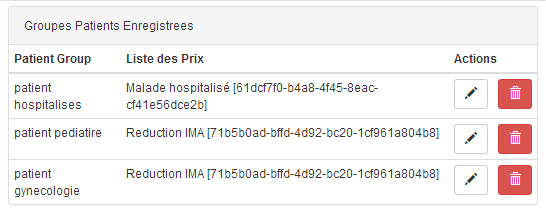
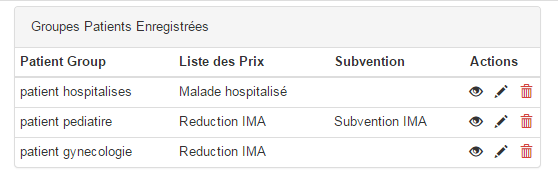
update user guide and complete translation

Changed region(s): [[0.0, 0.1913, 0.9963, 0.9563], [0.0311, 0.082, 0.3736, 0.1913], [0.0, 0.0273, 0.9963, 0.0546]]

diff --git a/client/src/partials/caution/caution.html b/client/src/partials/caution/caution.html
@@ -60,8 +60,8 @@
               </div>
 
               <div class="form-group">
-                <label class="control-label col-xs-2">{{ "CAUTION.GENDER" | translate }}</label>
-                <p class="form-control-static col-xs-10">{{debtor.sex}}</p>
+                <label class="control-label col-xs-4">{{ "CAUTION.GENDER" | translate }}</label> 
+                <p class="form-control-static col-xs-8">{{debtor.sex}}</p>
               </div>
             </div>
 

diff --git a/docs/BHIMA User Guide/HMS manuel d'utilisation.tex b/docs/BHIMA User Guide/HMS manuel d'utilisation.tex
@@ -287,7 +287,25 @@ Lorsque l'utilisateur click sur le bouton \includegraphics[scale=0.7]{pic/CreeAn
 
 Le champ \textbf{Année Fiscale précédent} n'apparait que s'il existe au moins une année fiscale déjà enregistrer dans le système. 
 
-Après avoir renseigné tous ce champ, un clic sur le bouton \textbf{Enregistrer} permet d'ajouter Une année fiscale dans ladite liste.
+Après avoir renseigné tous ce champ, un clic sur le bouton \textbf{Enregistrer} redirige vers la deuxième étape de la création d'année fiscale qu'au cas ou il existait une année fiscale précédente à celle qui est en train d'être créer. Cette interface permet juste la confirmation de la fermeture de l'année fiscale précédente.
+
+\begin{figure}[h]
+\begin{center}
+\includegraphics[width=12cm]{pic/CloseFiscYear.png}
+\end{center}
+\caption{Aperçue de l'interface permettant la fermeture de l'année fiscale précédente}
+\label{Aperçue de l'interface permettant la fermeture de l'année fiscale précédente}
+\end{figure}
+
+La troisième étape de la création d'une année fiscale n'est juste qu'une interface de confirmation de la fermeture de l'année fiscale, cette troisième étape devient la deuxième étape de la création d'une année fiscale dans le cas ou il n'existait pas encore d'autres années fiscale.
+
+\begin{figure}[h]
+\begin{center}
+\includegraphics[width=12cm]{pic/ConfirSucces.png}
+\end{center}
+\caption{Message de confirmation de la création de la nouvelle année fiscale}
+\label{Message de confirmation de la création de la nouvelle année fiscale}
+\end{figure}
 
 \newpage
 
@@ -296,25 +314,23 @@ Voici comment se présente la liste des années fiscale
 
 \begin{figure}[h]
 \begin{center}
-\includegraphics[width=16cm]{pic/ListeAnnFisc.png}
+\includegraphics[width=9cm]{pic/ListeAnnFisc.png}
 \end{center}
 \caption{Aperçue de la liste des années fiscales}
 \label{Aperçue de la liste des années fiscaux}
 \end{figure}
 
-
-La liste des années fiscale possède deux entêtes Description et Début année, pour chaque année fiscale de la liste existe l'icône \includegraphics[scale=0.7]{pic/EditUser.png} qui permet d'éditer l'année fiscal, le bloquer, le débloquer permet aussi de voir l'ouverture des balances. La figure ci-après permet de voir le formulaire qui permet de faire toutes ces opérations.
+Pour pouvoir visualiser les détailles d'une année fiscale il suffit de cliquer sur cette année fiscale dans la liste des années fiscaux.
 
 \begin{figure}[h]
 \begin{center}
 \includegraphics[width=12cm]{pic/FormAddFiscYear.png}
 \end{center}
-\caption{Formulaire d'administration des années fiscaux}
-\label{Formulaire d'administration des années fiscaux}
+\caption{Interface principale de management d'une année fiscal}
+\label{Interface principale de management d'une année fiscal}
 \end{figure}
 
-Dans la partie gauche de l'image ci-haut on retrouve la description de l'année fiscale, le bouton permettant de bloquer une année fiscale, le total des mois, le premier No Voucher, le dernier Voucher No, la date à laquelle la dite année fiscale avait été posté ainsi que la date à laquelle l'année fiscale prend fin.
-Dans la partie droite est affichée les différentes périodes de l'année fiscale. En dessous de ce tableau se trouve le bouton voir la balance d'ouverture.
+Dans la partie gauche de l'image ci-haut on retrouve la liste des années fiscales, on peut aussi , modifier la designation d'une année fiscale, visualiser les différentes périodes qui constituent cette année fiscale. 
 
 \newpage
 \section{Liste des prix}
@@ -508,10 +524,10 @@ Pour faire l'administration des secteurs, il suffit de cliquer sur le bouton \in
 
 \begin{figure}[h]
 \begin{center}
-\includegraphics[width=14cm]{pic/FormulaireGestionSecteur.png}
+\includegraphics[width=12cm]{pic/FormulaireGestionSecteur.png}
 \end{center}
-\caption{Aperçue du plan Comptable}
-\label{Aperçue du plan Comptable}
+\caption{Aperçue de l'interface permettant la gestion des secteurs}
+\label{Aperçue de l'interface permettant la gestion des secteurs}
 \end{figure}
 
 Le bouton \includegraphics[scale=0.7]{pic/GestionEmplacement.png} redirige vers la page principale de la gestion des emplacements.
@@ -519,7 +535,7 @@ Le bouton \includegraphics[scale=0.7]{pic/AddSecteur.png} permet d'ajouter un se
 
 \begin{figure}[h]
 \begin{center}
-\includegraphics[width=14cm]{pic/FormAddSecteur.png}
+\includegraphics[width=10cm]{pic/FormAddSecteur.png}
 \end{center}
 \caption{Formulaire permettant d'ajouter les secteurs}
 \label{Formulaire permettant d'ajouter les secteurs}
@@ -536,16 +552,15 @@ Pour faire l'administration des provinces, il suffit de cliquer sur le bouton \i
 \includegraphics[width=14cm]{pic/InterfaceGestionProvince.png}
 \end{center}
 \caption{Interface principale permettant la gestion des provinces}
-\label{Aperçue du plan Comptable}
+\label{Interface principale permettant la gestion des provinces}
 \end{figure}
 
 Le bouton \includegraphics[scale=0.7]{pic/GestionEmplacement.png} redirige vers la page principale de la gestion des emplacements.
 
 Le bouton \includegraphics[scale=0.7]{pic/AddNewProvince.png} permet d'ajouter une province dans ladite liste.
-\newpage
 \begin{figure}[h]
 \begin{center}
-\includegraphics[width=14cm]{pic/FormNewProvince.png}
+\includegraphics[width=10cm]{pic/FormNewProvince.png}
 \end{center}
 \caption{Formulaire permettant d'ajouter une province}
 \label{Formulaire permettant d'ajouter une province}
@@ -571,7 +586,7 @@ Le bouton \includegraphics[scale=0.7]{pic/AddCountry.png} permet d'ajouter un pa
 
 \begin{figure}[h]
 \begin{center}
-\includegraphics[width=16cm]{pic/SaveCountry.png}
+\includegraphics[width=10cm]{pic/SaveCountry.png}
 \end{center}
 \caption{Enregistrer un pays}
 \label{Enregistrer un pays}
@@ -580,6 +595,107 @@ Le bouton \includegraphics[scale=0.7]{pic/AddCountry.png} permet d'ajouter un pa
 Le formulaire ci-haut apparait lorsqu'un utilisateur clique sur le bouton \textbf{ajouter Nouveau pays}. Ce formulaire possède trois champs, le premier \textbf{Code} permet de donner un code à un pays ensuite un champ pour donner le nom du pays en \textbf{Anglais} et l'autre pour le \textbf{Français}.
 L'enregistrement est effectif seulement si l'utilisateur clique sur le bouton Ajouter. La liste des pays apparait sous forme de tableau. Ce tableau a trois rubriques. Le premier \textbf{Code} renseigne sur le code qui a été attribué au pays, le second \textbf{Nom en anglais} suivi de \textbf{Nom}  et le dernier \textbf{Actions} renferme deux icônes le premier \includegraphics[scale=0.7]{pic/EditUser.png}  permet de modifier les informations sur un pays et le second \includegraphics[scale=0.7]{pic/DeleteWRed.png}  permet de supprimer un pays.
 
+
+\section{Subventions}
+La figure ci-dessous représente l'interface principale permettant la Gestion des subventions. 
+\begin{figure}[h]
+\begin{center}
+\includegraphics[width=12cm]{pic/MainSubvention.png}
+\end{center}
+\caption{Interface permettant l'administration des subventions}
+\label{Interface permettant l'administration des subventions}
+\end{figure}
+
+Dans la figure ci-haute on retrouve dans la partie gauche la liste des différents subventions enregistrées dans le système, au dessus de ce tableau existe le bouton \includegraphics[scale=1]{pic/NewSubvention.png} qui permet d'ajouter un nouveau grade dans le système, le formulaire permettant d'enregistrer une nouvelle subvention se présente de la manière suivante.
+
+\begin{figure}[h]
+\begin{center}
+\includegraphics[width=8cm]{pic/FormSubvention.png}
+\end{center}
+\caption{Formulaire permettant l'enregistrement des subventions}
+\label{Formulaire permettant l'enregistrement des subventions}
+\end{figure} 
+
+Le formulaire permettant l'enregistrement des subventions comporte quatre zones de saisie rélative à la désignation de la subvention, le champ en pourcentage permet de spécifier si la subvention s'exprime en terme  de pourcentage, le champ valeur permet de renseigner la valeur de la subvention soit en pourcentage ou bien à l'unité monnetaire et le dernier permet de spécifier le débiteur qui prend en charge la subvention. 
+
+Les tableaux réprésentant les subventions enregistrées donne la possibilité de pouvoir mettre à jour les informations rélative à une subventions, dans la zone action de ce tableau on retrouve deux icônes, l'icône \includegraphics[scale=0.7]{pic/EditBlack.png} qui permet de mettre à jour une subventions et \includegraphics[scale=0.7]{pic/DeleteWRed.png} permet de supprimer une subvention dans le système.
+Voici un apperçu du formulaire permettant la mise à jour des informations d'une subvention, la mise à jour est effective que si l'on modifier les informations dont on a besoin en validant grace au bouton soumettre. 
+
+\begin{figure}[h]
+\begin{center}
+\includegraphics[width=8cm]{pic/FormUpSubventions.png}
+\end{center}
+\caption{Formulaire permettant de mettre à jour les informations d'une subvention}
+\label{Formulaire permettant de mettre à jour les informations d'une subvention}
+\end{figure} 
+
+\newpage
+\section{Taux d'échange}
+Le module de taux de change, donne la possibilité de définir le taux d'échange du jour. Par souci d'intégrité des données, Le taux d'échange doit être défini chaque jour.
+
+
+\begin{figure}[h]
+\begin{center}
+\includegraphics[width=16cm]{pic/FormulaireConfigRate.png}
+\end{center}
+\caption{Formulaire permettant de configurer le taux de change}
+\label{Formulaire permettant de configurer le taux de change}
+\end{figure}
+
+\subsection{Nouveau Taux}
+Lorsque l'utilisateur click sur le bouton \includegraphics[scale=0.7]{pic/NouveauTaux.png}
+ Le formulaire ci-après apparait.
+
+\begin{figure}[h]
+\begin{center}
+\includegraphics[width=12cm]{pic/DefinirTaux.png}
+\end{center}
+\caption{Formulaire permettant de definir le taux}
+\label{Formulaire permettant de definir le taux}
+\end{figure}
+\begin{itemize}
+\item \textbf{United States Dollars}: est la monnaie principale de l'application, l'équivalence avec d'autres monnaies ne doit se faire qu'avec la somme de 100 Dollars,
+\item \textbf{Sélectionner Monnaie}: Affiche la liste des monnaies qui existe dans le système et la zone de saisie qui se retrouve en bas permet de préciser l'équivalence avec la monnaie principale.
+\end{itemize}
+Après avoir renseigné ce deux champs, un clique sur le bouton \textbf{Soumettre} permet de définir les taux du jour.
+
+\subsection{Revoir le taux d'aujourd'hui}
+Un clic sur le bouton \includegraphics[scale=0.7]{pic/RevoirTaux.png} permet d'afficher toutes les informations sur le taux du jour, comme la montre la figure ci-dessous.
+\begin{figure}[h]
+\begin{center}
+\includegraphics[width=12cm]{pic/ShowRate.png}
+\end{center}
+\caption{Aperçue du taux du jour}
+\label{Aperçue du taux du jour}
+\end{figure}
+\newpage
+\section{Groupe Créditeur}
+Ce module permet de faire la gestion des groupes créditeurs, l'interface principale de ce module se présente de la manière que voici.
+
+\begin{figure}[h]
+\begin{center}
+\includegraphics[width=12cm]{pic/AdminGroupCredit.png}
+\end{center}
+\caption{Interface principale permettant d'administrer le groupe créditeur}
+\label{Interface principale permettant d'administrer le groupe créditeur}
+\end{figure}
+
+
+Le bouton \includegraphics[scale=0.7]{pic/NewGroupCredit.png} permet d'ajouter un nouveau groupe créditeur dans ladite liste.
+
+\begin{figure}[h]
+\begin{center}
+\includegraphics[width=12cm]{pic/AddNewGroupCred.png}
+\end{center}
+\caption{Ajouter un nouveau groupe créditeur}
+\label{Ajouter un nouveau groupe créditeur}
+\end{figure}
+
+Le formulaire ci-haut apparait lorsqu'un utilisateur clique sur le bouton \textbf{Nouveau groupe Créditeur}. Ce formulaire possède deux champs, le premier \textbf{Nom du groupe} permet de spécifier le nom du groupe et \textbf{Numéro de compte}  le numéro de compte permet de choisir dans la liste de compte, celui correspondant au groupe créditeur.
+L'enregistrement est effectif seulement si l'utilisateur clique sur le bouton Sauver changement.
+La liste des groupes créditeurs apparait sous forme de tableau. Ce tableau possède quatre rubriques. Le premier \textbf{Nom du groupe} renseigne sur le nom du groupe, le second renseigne sur le numéro de compte, en troisième lieu il y'a une rubrique qui est représenté par l'icône \includegraphics[scale=0.7]{pic/Locked.png}  qui permet de verrouiller mais aussi de déverrouillé un groupe créditeur à l'aide de case à coché et denier lieu il y'a \textbf{Editer} qui contient l'icône  \includegraphics[scale=0.7]{pic/EditUser.png} permet de modifier les informations sur un groupe créditeur.
+
+
 \newpage
 \section{Groupe des Patients}
 Ce menu permet d'enregistrer toutes les groupes permettant des catégorisés les différents type des patients. Qui sont admis au sein de l'hôpital. 
@@ -587,7 +703,7 @@ L'interface principale se présente comme de la manière suivante.
 
 \begin{figure}[h]
 \begin{center}
-\includegraphics[width=14cm]{pic/AdminGroupPatient.png}
+\includegraphics[width=16cm]{pic/AdminGroupPatient.png}
 \end{center}
 \caption{Interface principale de la gestion des groupes des malades}
 \label{Interface principale de la gestion des groupes des malades}
@@ -599,7 +715,7 @@ Pour ajouter un nouveau groupe des patients, il suffit de cliquer sur le bouton 
 
 \begin{figure}[h]
 \begin{center}
-\includegraphics[width=14cm]{pic/FormGroupPatient.png}
+\includegraphics[width=10cm]{pic/FormGroupPatient.png}
 \end{center}
 \caption{Formulaire permettant d'enregistrer un groupe des patients}
 \label{Formulaire permettant d'enregistrer un groupe des patients}
@@ -607,15 +723,24 @@ Pour ajouter un nouveau groupe des patients, il suffit de cliquer sur le bouton 
 
 Le formulaire ci-haut apparait lorsqu'un utilisateur clique sur le bouton \textbf{Nouveau groupe patients}. Ce formulaire possède trois champs le premier \textbf{Nom} permet de donner un nom au groupe des malades et le second Liste des prix fait référence à la \textbf{liste de prix} relative à la dite groupe le dernier \textbf{Note} permet d'ajouter des informations supplémentaire au groupe des patients.
 
-L'enregistrement est effectif seulement si l'utilisateur clique sur le bouton Sauver. La liste \textbf{Groupes Patients Enregistrées} apparait sous forme de tableau. Ce tableau a trois rubriques. Le premier \textbf{Patient group} renseigne sur le nom du groupe, le second \textbf{Liste de prix} permet de savoir dans quelles liste de prix fait référence un groupe. Le dernier \textbf{Actions} renferme deux icônes le premier \includegraphics[scale=0.7]{pic/EditBlack.png}  permet de modifier les informations sur un pays et le second \includegraphics[scale=0.7]{pic/DeleteRed.png}  permet de supprimer un groupe.
+L'enregistrement est effectif seulement si l'utilisateur clique sur le bouton Sauver. La liste \textbf{Groupes Patients Enregistrées} apparait sous forme de tableau. Ce tableau a trois rubriques. Le premier \textbf{Patient group} renseigne sur le nom du groupe, le second \textbf{Liste de prix} permet de savoir dans quelles liste de prix fait référence un groupe. Le dernier \textbf{Actions} renferme deux icônes le premier \includegraphics[scale=0.7]{pic/blackEyes.png}  permet de visualiser les spécificités d'un groupe des patients, le premier \includegraphics[scale=0.7]{pic/EditBlack.png}  permet de modifier les informations sur un groupe des patients et le troisième \includegraphics[scale=0.7]{pic/DeleteRed.png}  permet de supprimer un groupe.
+
+
+\begin{figure}[h]
+\begin{center}
+\includegraphics[width=12cm]{pic/DetaiGrouPAtient.png}
+\end{center}
+\caption{Aperçue de l'interface permettant la visualisation des données d'un groupe des patients}
+\label{Aperçue de l'interface permettant la visualisation des données d'un groupe des patients}
+\end{figure}
 
 
 \begin{figure}[h]
 \begin{center}
 \includegraphics[width=12cm]{pic/TabGroupMalade.png}
 \end{center}
-\caption{Aperçue du tableau des groupes des malades}
-\label{Aperçue du tableau des groupes des malades}
+\caption{Aperçue du tableau des groupes des patients}
+\label{Aperçue du tableau des groupes des patients}
 \end{figure}
 \newpage
 
@@ -684,13 +809,13 @@ Dans la partie gauche l'on trouve un bouton qui permet d'ajouter un nouveau dép
 
 \begin{figure}[h]
 \begin{center}
-\includegraphics[width=14cm]{pic/NewStore.png}
+\includegraphics[width=10cm]{pic/NewStore.png}
 \end{center}
 \caption{Formulaire permettant d'ajouter un dépôt}
 \label{Formulaire permettant d'ajouter un dépôt}
 \end{figure}
 
-Le formulaire ci-haut apparait lorsqu'un utilisateur clique sur le bouton \textbf{Ajouter}. Ce formulaire possède le champ \textbf{Nom} qui permet d'attribuer un nom à un dépôt.
+Le formulaire ci-haut apparait lorsqu'un utilisateur clique sur le bouton \textbf{Ajouter}. Ce formulaire possède le champ \textbf{Nom} qui permet d'attribuer un nom à un dépôt, la case à cocher est ce un entrepôt permet de spécifier si le dépôt qui est entrain d'être enregistrer sera la principale dans l'organisation.
 L'enregistrement est effectif seulement si l'utilisateur clique sur le bouton Soumettre. \textbf{La liste de tous les dépôts} apparait sous forme de tableau. Ce tableau afficher toutes les informations relatives entre autre le numéro de référence, le nom et La zone \textbf{Acte} renferme deux icônes le premier \includegraphics[scale=0.7]{pic/EditUser.png}  permet de modifier le nom d'un dépôt le second \includegraphics[scale=0.7]{pic/DeleteWRed.png}  permet de supprimer un dépôt.
 \newpage
 
@@ -778,6 +903,16 @@ En dessous de cette zone réservé au bouton, il y'a une zone qui permet de rech
 \end{center}
 \caption{Aperçue de la zone permettant de rechercher un patient}
 \label{Aperçue de la zone permettant de rechercher un patient}
+\end{figure}
+
+Il existe une aussi une zone qui permet de spécifier le type de vente à opérer, il peut s'agir d'une vente distribuable et non distribuable. Une vente est dite distribuable si le patient pourrai aller se servir en produits pharmaceutiques et non distribuable si le patient à déjà consommer les dites produits. Par défaut c'est l'option \textbf{Distribuable} qui est coché par défaut.  
+
+\begin{figure}[h]
+\begin{center}
+\includegraphics[width=14cm]{pic/TypeVente.png}
+\end{center}
+\caption{Aperçue de la zone permettant de spécifier le type de vente}
+\label{Aperçue de la zone permettant de spécifier le type de vente}
 \end{figure}
 
 Après avoir lancer la recherche, les patients apparaissent sous forme d'une liste, une fois qu'on a retrouvé celui dont on a besoin, on le sélectionne et on clique sur le bouton soumettre, après cette étape il faudrait preciser dans quelle service est pris en charge le patient.
@@ -1047,6 +1182,7 @@ Cet interface permet aussi de prendre en charge plusieur facture appartenant à 
 \caption{Apperçue de l'interface permettant de renseigner la personne qui a autorisée le paiement}
 \label{Apperçue de l'interface permettant de renseigner la personne qui a autorisée le paiement}
 \end{figure}
+
 \newpage
 \section{Caution}
 Le module Caution est un module qui permet aux patients privés, de pouvoir payer une caution à l'hôpital, cette caution leur donne la possibilité de pour bénéficier des différents services, jusqu'à ce que les motants de la caution s'épuise.
@@ -1141,6 +1277,35 @@ Dans cette interface nous avons un tableau à gauche qui renseigne sur les infor
 
 une fois que cette opération est effectué un spéciment de reçu pour les conventions sera généré automatiquement par le système.
 
+
+\newpage
+\subsection{Recettes : Support paiement}
+Ce modules permet à des employés ayant prise en charge des patients de pouvoir s'acquiter de leur charges,l'interface principale de ce module se présente de la manière suivante.
+
+\begin{figure}[h]
+\begin{center}
+\includegraphics[width=14cm]{pic/InterFacePriseCharge.png}
+\end{center}
+\caption{Interface principale de paiement de prise en charge}
+\label{Interface principale de paiement de prise en charge}
+\end{figure}
+
+Dans le coin superieur gauche il y'a un bouton qui permet de préciser la monnaie qui sera utilisée lors de l'opération du paiement.
+
+En suite il y'a une zone de recherche qui permet de rechercher l'employé qui procéde aux paiements, une fois qu'on a retrouver la dite employé, il suffit de cliquer sur le bouton soumettre pour que s'affiche la situation des tous les patients prisent en charge par l'employé, comme le montre la figure ci-après.
+
+
+\begin{figure}[h]
+\begin{center}
+\includegraphics[width=14cm]{pic/PaiemPriseChargeEmploy.png}
+\end{center}
+\caption{Illustration d'un cas de paiement pour un employé}
+\label{Illustration d'un cas de paiement pour un employé}
+\end{figure}
+ 
+Dans cette interface nous avons un tableau à gauche qui renseigne sur les informations financières sommaire et en bas du tableau, la totalité de ce que doit le groupe débiteur à l'hôpitale, la zone boite de paiement permet de préciser le montant à payer.
+
+une fois que cette opération est effectué un spéciment de reçu pour les conventions sera généré automatiquement par le système.
 
 \newpage
 \subsection{Recettes : Recette Générique}
